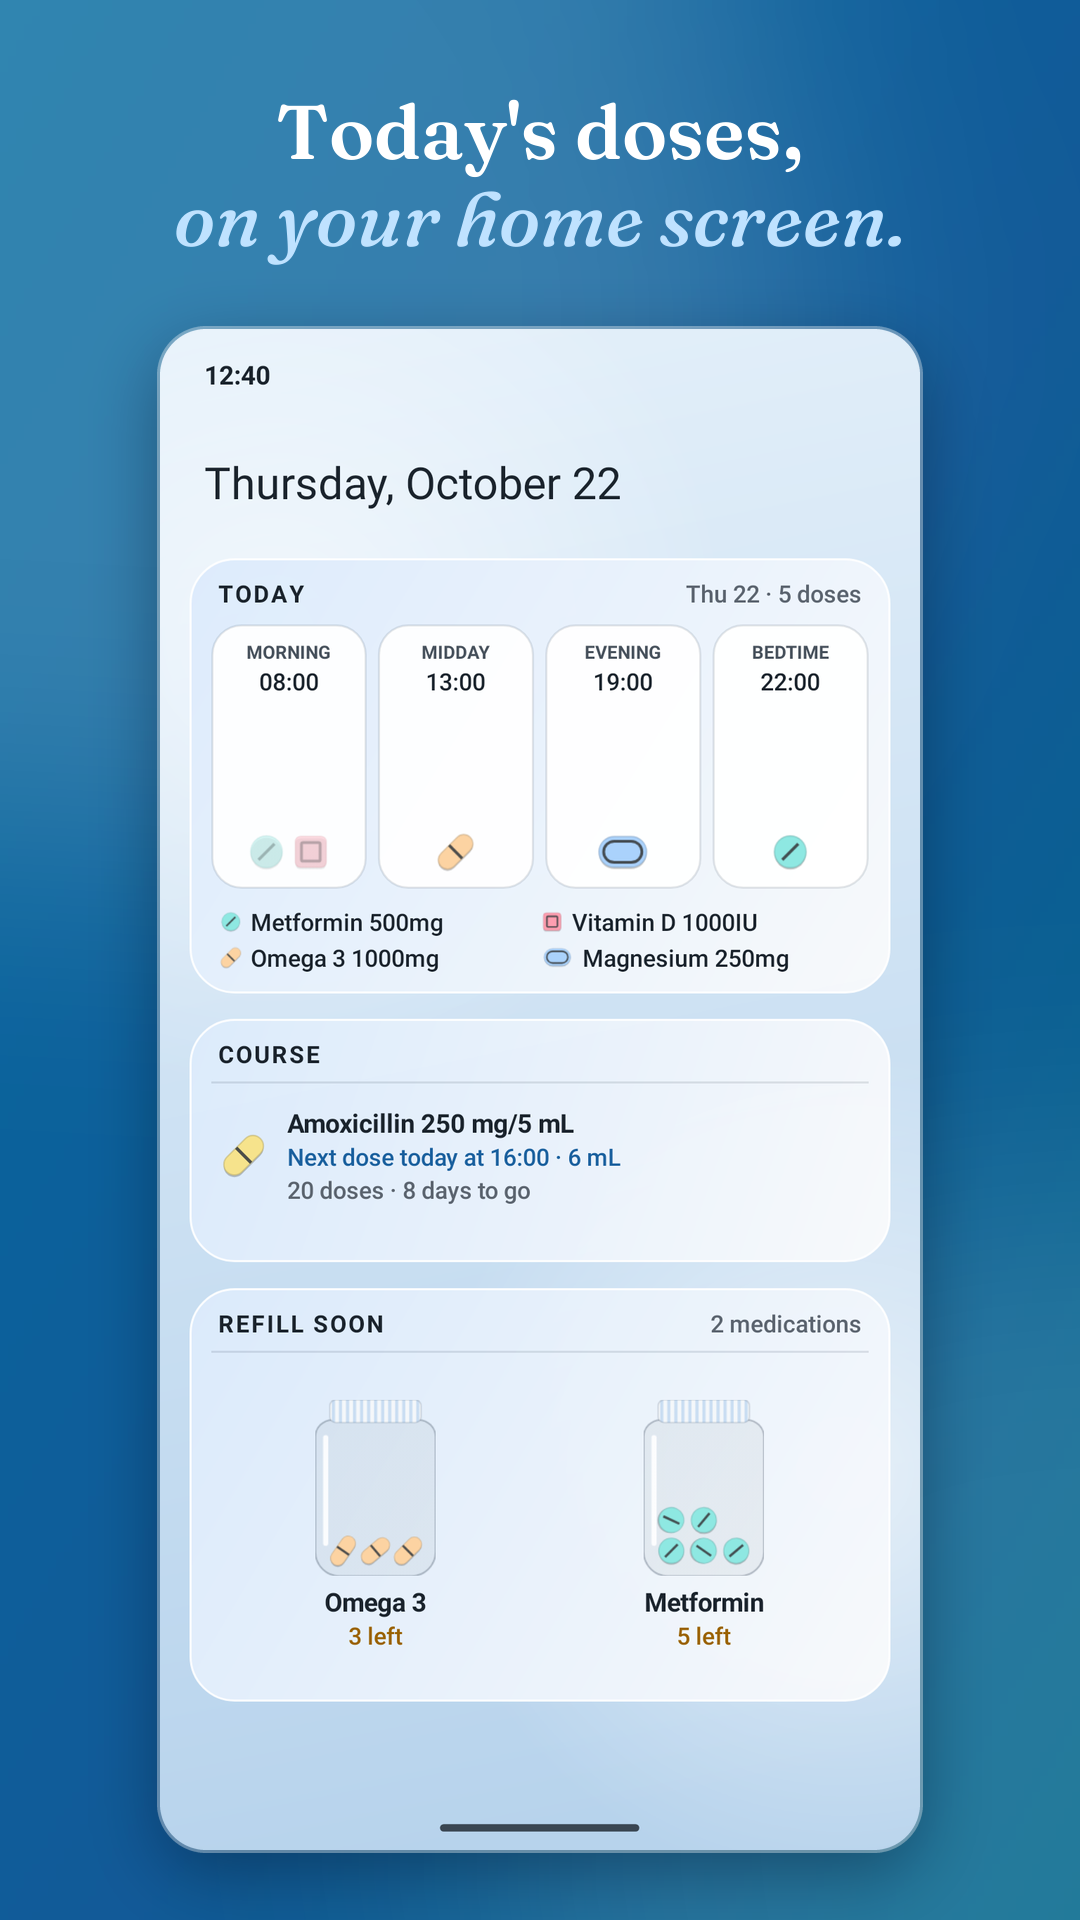
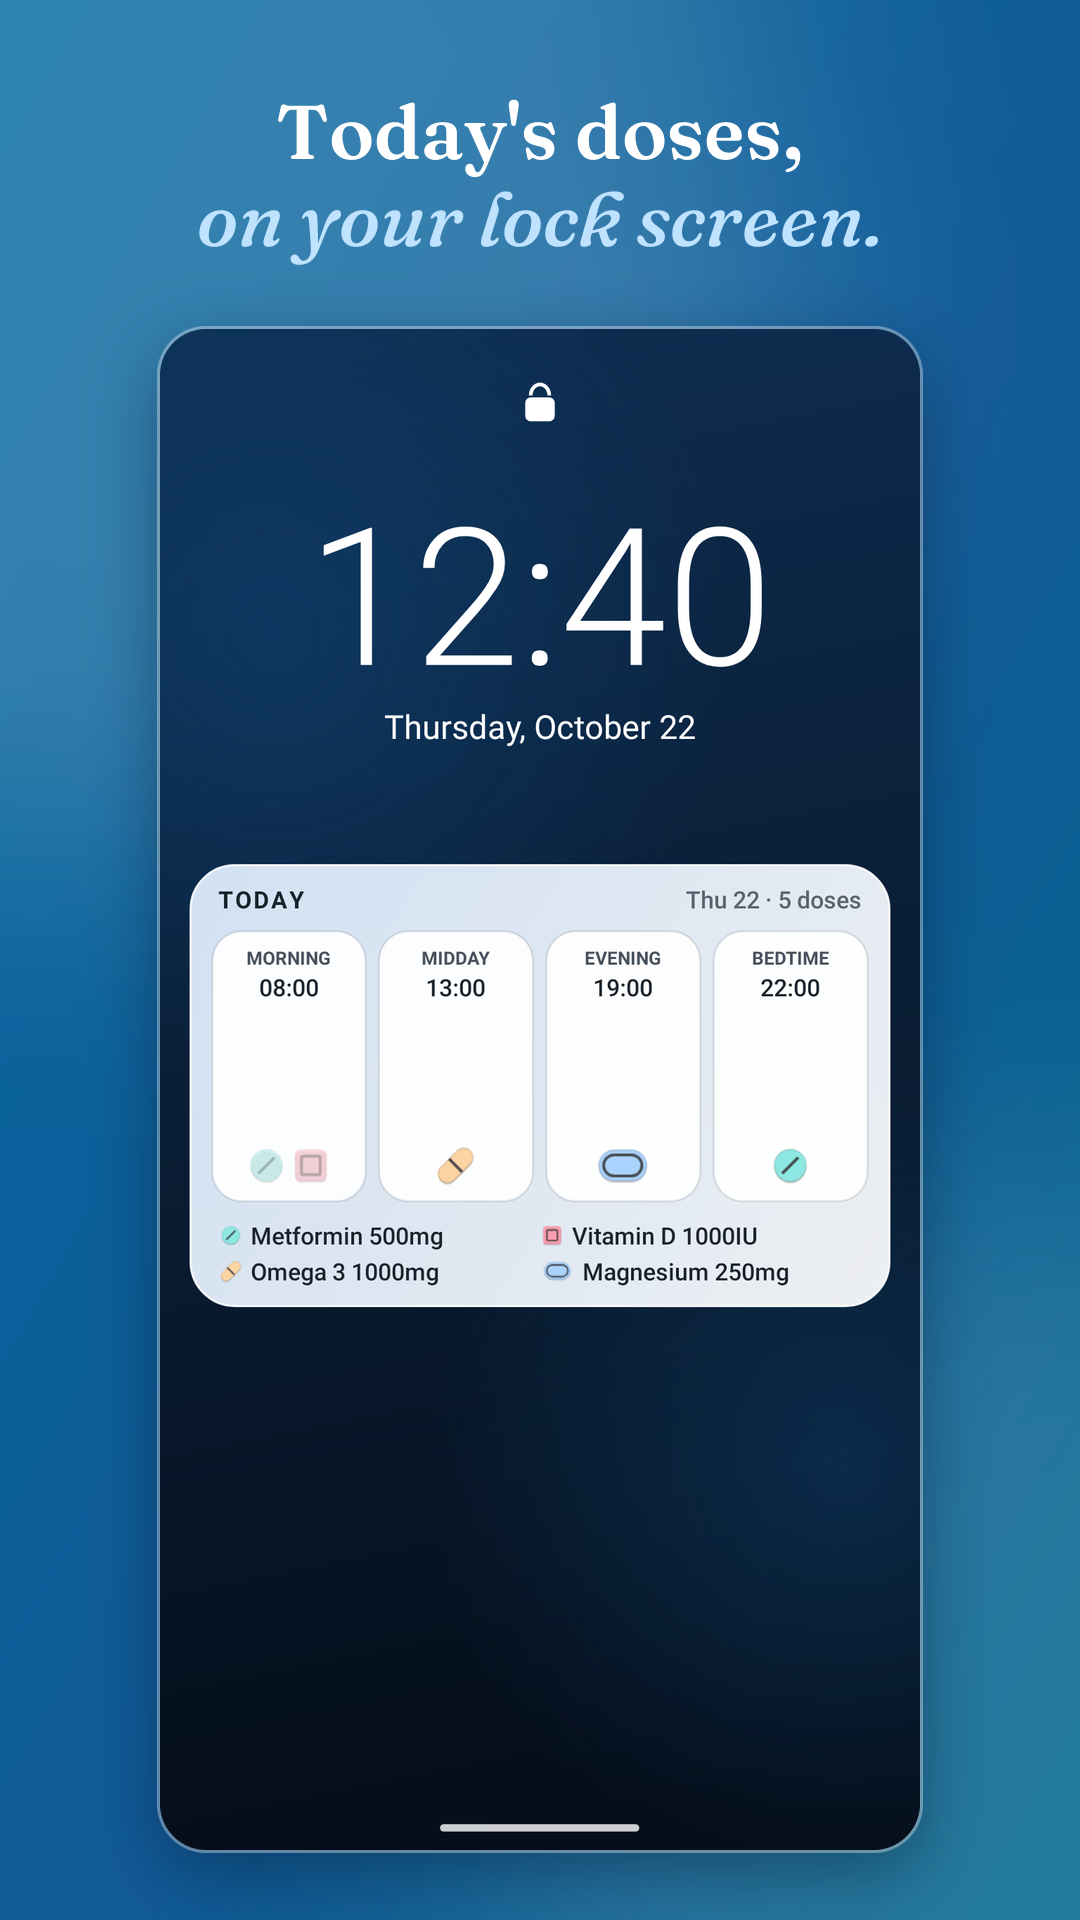
docs: show the HOJE widget on the lock screen in the store listing
Phone screenshot 2 was a home screen with three widgets, which was hard to
read at listing size. It is now the HOJE widget alone, large, on a lock
screen under the clock. check_listing.py also skips stray files such as
.DS_Store in listings/.

diff --git a/androidApp/src/test/kotlin/org/mariacf/tempusremedium/android/store/StoreListingCaptures.kt b/androidApp/src/test/kotlin/org/mariacf/tempusremedium/android/store/StoreListingCaptures.kt
@@ -233,9 +233,9 @@ abstract class StoreListingCaptures(
             sample().logSlot(date, TimeSlot.MORNING, DoseStatus.TAKEN, millis(date, 8, 0))
         }
 
-    /** The three widgets on a light home screen at midday: HOJE, the antibiotic's next dose, REPOR EM BREVE. */
+    /** HOJE on the lock screen at midday, large, under the clock. */
     @Test
-    fun widgets() = homeScreen("09_widgets", at = LocalTime(12, 40)) { morningTaken().withCourse(dosesTaken = 1) }
+    fun lockScreenWidget() = lockScreen("09_lock_screen", at = LocalTime(12, 40)) { morningTaken() }
 
     /** The same widgets at night, in the dark theme and with blister packs. */
     @Test
@@ -482,15 +482,70 @@ abstract class StoreListingCaptures(
                 renderWidget(context, DpSize(WIDGET_WIDTH_DP.dp, 132.dp)) { CourseWidgetContent(course) },
                 renderWidget(context, DpSize(WIDGET_WIDTH_DP.dp, 224.dp)) { ReporWidgetContent(repor) },
             )
+        val dark = WidgetStyle.palette(context) == TempusPalette.Dark
+        deviceScreen(name, dark) { canvas, dp, text ->
+            val margin = (canvas.width - WIDGET_WIDTH_DP * dp) / 2
+            canvas.drawText(at.toString(), margin + 8 * dp, 30 * dp, text(14f, Typeface.BOLD))
+            canvas.drawText(homeDate, margin + 8 * dp, 92 * dp, text(24f, Typeface.NORMAL))
+            var y = 124 * dp
+            for (widget in widgets) {
+                canvas.drawBitmap(widget, margin, y, null)
+                y += widget.height + 14 * dp
+            }
+        }
+    }
 
-        val metrics = context.resources.displayMetrics
+    /**
+     * The HOJE widget alone on a lock screen: padlock, large clock, date, then the widget, on the
+     * dark wallpaper. Drawn like [homeScreen]; the widget follows the qualifiers' day/night setting.
+     */
+    private fun lockScreen(
+        name: String,
+        at: LocalTime,
+        data: () -> AppData,
+    ) {
+        val context = ApplicationProvider.getApplicationContext<Context>()
+        val hoje = runBlocking { HojeWidgetUi.build(context, data(), date) }
+        val widget = renderWidget(context, DpSize(WIDGET_WIDTH_DP.dp, 240.dp)) { HojeWidgetContent(hoje) }
+        deviceScreen(name, darkWallpaper = true) { canvas, dp, text ->
+            val center = canvas.width / 2f
+            // Padlock: shackle and body.
+            val lock =
+                text(0f, Typeface.NORMAL).apply {
+                    style = Paint.Style.STROKE
+                    strokeWidth = 2 * dp
+                }
+            canvas.drawArc(RectF(center - 5 * dp, 30 * dp, center + 5 * dp, 42 * dp), 180f, 180f, false, lock)
+            canvas.drawRoundRect(RectF(center - 8 * dp, 37 * dp, center + 8 * dp, 50 * dp), 3 * dp, 3 * dp, text(0f, Typeface.NORMAL))
+            val clock =
+                text(104f, Typeface.NORMAL).apply {
+                    textAlign = Paint.Align.CENTER
+                    typeface =
+                        Typeface.create("sans-serif-light", Typeface.NORMAL)
+                }
+            canvas.drawText(at.toString(), center, 182 * dp, clock)
+            canvas.drawText(homeDate, center, 222 * dp, text(18f, Typeface.NORMAL).apply { textAlign = Paint.Align.CENTER })
+            canvas.drawBitmap(widget, (canvas.width - widget.width) / 2f, 290 * dp, null)
+        }
+    }
+
+    /**
+     * A phone screen drawn by hand: the wallpaper in the brand blues with soft blobs, whatever
+     * [content] draws (given the canvas, the density and a text paint factory) and the gesture bar.
+     */
+    private fun deviceScreen(
+        name: String,
+        darkWallpaper: Boolean,
+        content: (android.graphics.Canvas, Float, (Float, Int) -> Paint) -> Unit,
+    ) {
+        val metrics = ApplicationProvider.getApplicationContext<Context>().resources.displayMetrics
         val dp = metrics.density
         val width = metrics.widthPixels
         val height = metrics.heightPixels
-        val dark = WidgetStyle.palette(context) == TempusPalette.Dark
         val bitmap = Bitmap.createBitmap(width, height, Bitmap.Config.ARGB_8888)
         val canvas = android.graphics.Canvas(bitmap)
-        val (top, bottom, blob) = if (dark) Triple(0xFF0E2E52, 0xFF050D18, 0x55125A98) else Triple(0xFFE4F0FA, 0xFFB7D3EC, 0x99FFFFFF)
+        val (top, bottom, blob) =
+            if (darkWallpaper) Triple(0xFF0E2E52, 0xFF050D18, 0x55125A98) else Triple(0xFFE4F0FA, 0xFFB7D3EC, 0x99FFFFFF)
         canvas.drawPaint(
             Paint(Paint.ANTI_ALIAS_FLAG).apply {
                 shader = LinearGradient(0f, 0f, width * 0.4f, height.toFloat(), top.toInt(), bottom.toInt(), Shader.TileMode.CLAMP)
@@ -509,26 +564,17 @@ abstract class StoreListingCaptures(
             )
         }
 
-        val ink = if (dark) android.graphics.Color.WHITE else TempusPalette.Light.ink.toArgb()
-
-        fun text(
-            size: Float,
-            bold: Boolean,
-        ) = Paint(Paint.ANTI_ALIAS_FLAG).apply {
-            color = ink
-            textSize = size * dp
-            typeface = Typeface.create(Typeface.SANS_SERIF, if (bold) Typeface.BOLD else Typeface.NORMAL)
+        val ink = if (darkWallpaper) android.graphics.Color.WHITE else TempusPalette.Light.ink.toArgb()
+        val text = { size: Float, style: Int ->
+            Paint(Paint.ANTI_ALIAS_FLAG).apply {
+                color = ink
+                textSize = size * dp
+                typeface = Typeface.create(Typeface.SANS_SERIF, style)
+            }
         }
-        val margin = (width - WIDGET_WIDTH_DP * dp) / 2
-        canvas.drawText(at.toString(), margin + 8 * dp, 30 * dp, text(14f, bold = true))
-        canvas.drawText(homeDate, margin + 8 * dp, 92 * dp, text(24f, bold = false))
-        var y = 124 * dp
-        for (widget in widgets) {
-            canvas.drawBitmap(widget, margin, y, null)
-            y += widget.height + 14 * dp
-        }
+        content(canvas, dp, text)
         val bar = RectF(width / 2 - 54 * dp, height - 14 * dp, width / 2 + 54 * dp, height - 10 * dp)
-        canvas.drawRoundRect(bar, 2 * dp, 2 * dp, text(0f, bold = false).apply { alpha = 0xCC })
+        canvas.drawRoundRect(bar, 2 * dp, 2 * dp, text(0f, Typeface.NORMAL).apply { alpha = 0xCC })
 
         val file = File(output(name))
         file.parentFile?.mkdirs()

diff --git a/store-listing/scripts/check_listing.py b/store-listing/scripts/check_listing.py
@@ -54,7 +54,7 @@ def check_image(path, size=None, alpha_ok=False, max_bytes=8 * 1024 * 1024, side
 
 
 def main():
-    for listing in sorted((STORE / "listings").iterdir()):
+    for listing in sorted(path for path in (STORE / "listings").iterdir() if path.is_dir()):
         counts = {name: check_text(listing / name, limit) for name, limit in TEXT_LIMITS.items()}
         graphics = listing / "graphics"
         check_image(graphics / "icon/1.png", (512, 512), alpha_ok=True, max_bytes=1024 * 1024)

diff --git a/store-listing/README.md b/store-listing/README.md
@@ -79,7 +79,7 @@ listing (Play takes at most 8 phone screenshots).
 | # | Screen | pt-PT caption | en-US caption |
 | --- | --- | --- | --- |
 | 1 | Hoje, midday | O que tomar hoje, *e a que horas.* | What to take today, *and when.* |
-| 2 | Home screen, light: the HOJE, Tratamento and REPOR EM BREVE widgets | As doses de hoje, *no ecrã principal.* | Today's doses, *on your home screen.* |
+| 2 | Lock screen at midday: the HOJE widget under the clock | As doses de hoje, *no ecrã de bloqueio.* | Today's doses, *on your lock screen.* |
 | 3 | Hoje at 13:40: MEIO-DIA in red, Ómega 3's jar pulsing | Esqueceu-se de uma toma? *Fica a vermelho.* | Missed a dose? *It turns red.* |
 | 4 | Manhã sheet: one dose taken, one to take | Marque cada dose *com um toque.* | Log each dose *with one tap.* |
 | 5 | Medicamentos: tablets, inhaler, patch, spray, drops, injection | Comprimidos, inaladores, *pensos, gotas e mais.* | Pills, inhalers, patches, *drops and more.* |
@@ -102,9 +102,9 @@ Screens are rendered at 412 × 824 dp, a common phone width. Three details of th
 - Tests never run infinite animations, so the running-out pulse is captured at its start (alpha
   0.15) next to the same screen with the alert seen. The glow is alpha-blended, so
   `scripts/captures.py` rebuilds any phase exactly from the pair; screenshot 3 uses the brightest.
-- Robolectric cannot run a launcher, so the home screens are drawn in the capture (wallpaper,
-  clock, date, gesture bar) around the real Glance widgets, rendered the way the widget preview
-  images are.
+- Robolectric cannot run a launcher or a lock screen, so they are drawn in the capture
+  (wallpaper, clock, date, padlock, gesture bar) around the real Glance widgets, rendered the way
+  the widget preview images are.
 
 ## The demo video
 
@@ -128,7 +128,7 @@ python3 store-listing/scripts/check_listing.py
 ```
 
 1. `StoreListingCaptures` (`androidApp/src/test/.../store/`) writes the raw phone and tablet
-   screens, the widget home screens, the feature graphic, the icon and the medication forms to
+   screens, the widget lock and home screens, the feature graphic, the icon and the medication forms to
    `store-listing/source/` (git-ignored). It only
    runs with `STORE_LISTING=1`, so CI skips it; `--rerun` stops Gradle from reusing a cached result.
 2. `compose_graphics.py` frames the phone and tablet screens, flattens the feature graphic and writes everything
